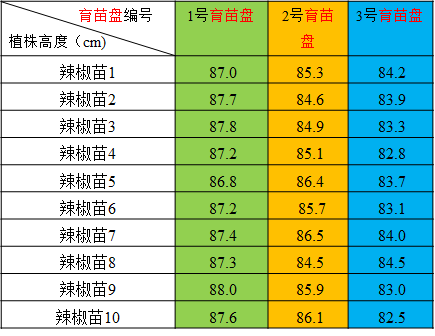
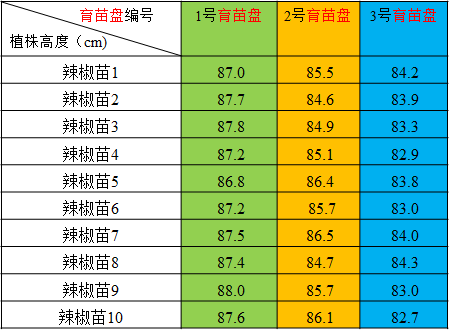
fix:issue 6

Changed region(s): [[0.0, 0.0, 1.0, 0.9821]]

diff --git a/src/components/SelectiveHeight.vue b/src/components/SelectiveHeight.vue
@@ -1,0 +1,128 @@
+<script>
+export default {
+  name: "SelectiveHeight",
+  props: {
+    no: {
+      type: Number,
+    },
+  },
+  data() {
+    return {
+      value: "0",
+      options1: [
+        {
+          value: "87.4",
+          label: "A. 平均值(87.0,87.7,87.8,87.2,86.8,87.2,87.5,87.4,88.0,87.6)",
+        },
+        {
+          value: "87.2",
+          label: "B. 众数(87.0,87.7,87.8,87.2,86.8,87.2,87.5,87.4,88.0,87.6)",
+        },
+        {
+          value: "88.0",
+          label: "C. 最大值(87.0,87.7,87.8,87.2,86.8,87.2,87.5,87.4,88.0,87.6)",
+        },
+        {
+          value: "86.8",
+          label: "D. 最小值(87.0,87.7,87.8,87.2,86.8,87.2,87.5,87.4,88.0,87.6)",
+        },
+        {
+          value: "87.5",
+          label: "E.中位数(87.0,87.7,87.8,87.2,86.8,87.2,87.5,87.4,88.0,87.6)",
+        },
+      ],
+      options2: [
+        {
+          value: "85.5",
+          label: "A. 平均值(85.5,84.6,84.9,85.1,86.4,85.7,86.5,84.7,85.7,86.1)",
+        },
+        {
+          value: "85.7",
+          label: "B. 众数(85.5,84.6,84.9,85.1,86.4,85.7,86.5,84.7,85.7,86.1)",
+        },
+        {
+          value: "86.5",
+          label: "C. 最大值(85.5,84.6,84.9,85.1,86.4,85.7,86.5,84.7,85.7,86.1)",
+        },
+        {
+          value: "84.6",
+          label: "D. 最小值(85.5,84.6,84.9,85.1,86.4,85.7,86.5,84.7,85.7,86.1)",
+        },
+        {
+          value: "85.6",
+          label: "E. 中位数(85.5,84.6,84.9,85.1,86.4,85.7,86.5,84.7,85.7,86.1)",
+        },
+      ],
+      options3: [
+        {
+          value: "83.5",
+          label: "A. 平均值(84.2,83.9,83.3,82.9,83.8,83.0,84.0,84.3,83.0,82.7)",
+        },
+        {
+          value: "83.0",
+          label: "B. 众数(84.2,83.9,83.3,82.9,83.8,83.0,84.0,84.3,83.0,82.7)",
+        },
+        {
+          value: "84.3",
+          label: "C. 最大值(84.2,83.9,83.3,82.9,83.8,83.0,84.0,84.3,83.0,82.7)",
+        },
+        {
+          value: "82.7",
+          label: "D. 最小值(84.2,83.9,83.3,82.9,83.8,83.0,84.0,84.3,83.0,82.7)",
+        },
+        {
+          value: "83.6",
+          label: "E.中位数(84.2,83.9,83.3,82.9,83.8,83.0,84.0,84.3,83.0,82.7)",
+        },
+      ],
+    };
+  },
+  methods: {
+    onConfirm() {
+      this.$emit("onConfirm", {
+        answer: this.value,
+      });
+      this.value = "0";
+      this.options = [];
+    },
+  },
+  computed: {
+    options: function () {
+      if (this.no === 1) {
+        return this.options1;
+      } else if (this.no === 2) {
+        return this.options2;
+      }
+      return this.options3;
+    },
+  },
+};
+</script>
+<template>
+  <div
+    style="width: 85%; height: 70%; background-color: white; font-size: 14px"
+  >
+    <!-- {{ props.no }}号盘内植株高度 -->
+    <p>
+      <span> {{ no }}号盘内植株高度=</span>
+      <el-select
+        v-model="value"
+        placeholder="请选择最恰当的数据分析方法"
+        style="font-size: 14px"
+      >
+        <el-option
+          v-for="item in options"
+          :key="item.value"
+          :label="item.label"
+          :value="item.value"
+        >
+        </el-option>
+      </el-select>
+    </p>
+    <p>= {{ value }}cm</p>
+    <p>
+      <el-button type="primary" @click="onConfirm">确定</el-button>
+    </p>
+  </div>
+</template>
+<style scoped></style>

diff --git a/src/ppt/Issue6Right.vue b/src/ppt/Issue6Right.vue
@@ -1,10 +1,11 @@
 <script>
 import { useUserStore } from "../stores/user";
-import Calculator from "../components/Calculator.vue";
+// import Calculator from "../components/Calculator.vue";
+import SelectiveHeight from "../components/SelectiveHeight.vue";
 export default {
   name: "IssueSixRight",
   components: {
-    Calculator,
+    SelectiveHeight,
   },
   props: {},
   data() {
@@ -15,7 +16,7 @@ export default {
       this.mark = false;
       this.store.issue6.height[this.nowIssue] = val;
     },
-    openCalculator(nowIssue) {
+    openDialog(nowIssue) {
       this.mark = true;
       this.nowIssue = nowIssue;
     },
@@ -32,16 +33,28 @@ export default {
         <strong>问题6</strong>
         小明收集的育苗盘中植株高度数据如左表所示。每一个育苗盘中均有10株苗，苗的编号为1号到10号。
       </p>
-      <p>请借助计算器分析数据，请回答：</p>
+      <p>请点击下方蓝色方框，分析：</p>
       <p>
-        1号育苗盘内植株高度：<el-button
-          type="primary"
-          @click="openCalculator(0)"
-          >{{ store.issue6.height[0].answer }}</el-button
-        >
+        1号育苗盘内植株高度：
+        <el-button type="primary" @click="openDialog(0)">{{
+          store.issue6.height[0].answer
+        }}</el-button>
         cm（保留1位小数）
       </p>
-
+      <p>
+        2号育苗盘内植株高度：
+        <el-button type="primary" @click="openDialog(1)">{{
+          store.issue6.height[1].answer
+        }}</el-button>
+        cm（保留1位小数）
+      </p>
+      <p>
+        3号育苗盘内植株高度：
+        <el-button type="primary" @click="openDialog(2)">{{
+          store.issue6.height[2].answer
+        }}</el-button>
+        cm（保留1位小数）
+      </p>
       <p>请解释你是如何得出上述数据的：</p>
       <el-input
         type="textarea"
@@ -52,9 +65,16 @@ export default {
       </el-input>
     </div>
     <div
+      v-show="mark"
       :class="{ 'h-full': true, 'border-radius-round': true, mark: mark }"
     ></div>
-    <Calculator v-show="mark" @onConfirm="onConfirm"></Calculator>
+    <SelectiveHeight
+      :no="nowIssue + 1"
+      class="selectiveHeight"
+      v-show="mark"
+      @onConfirm="onConfirm"
+    ></SelectiveHeight>
+    <!-- <Calculator v-show="mark" @onConfirm="onConfirm"></Calculator> -->
   </div>
 </template>
 <style lang="scss" scoped>
@@ -72,5 +92,11 @@ $text-size: 22px;
   left: 0;
   position: absolute;
   opacity: 0.6;
+}
+.selectiveHeight {
+  position: absolute;
+  top: 50%;
+  left: 50%;
+  transform: translateX(-50%) translateY(-50%);
 }
 </style>
